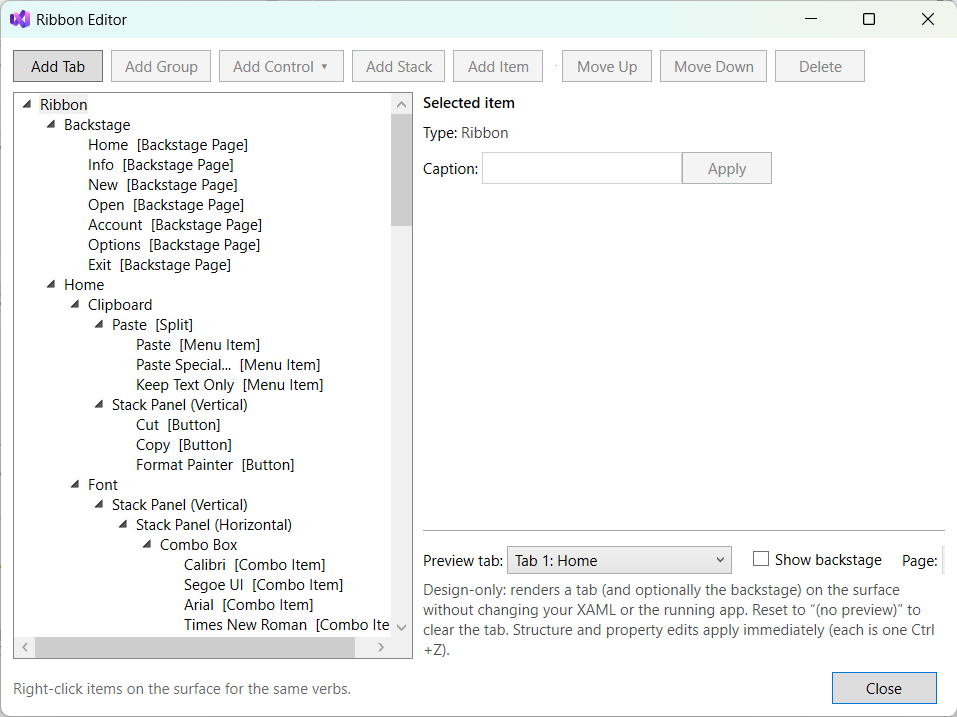
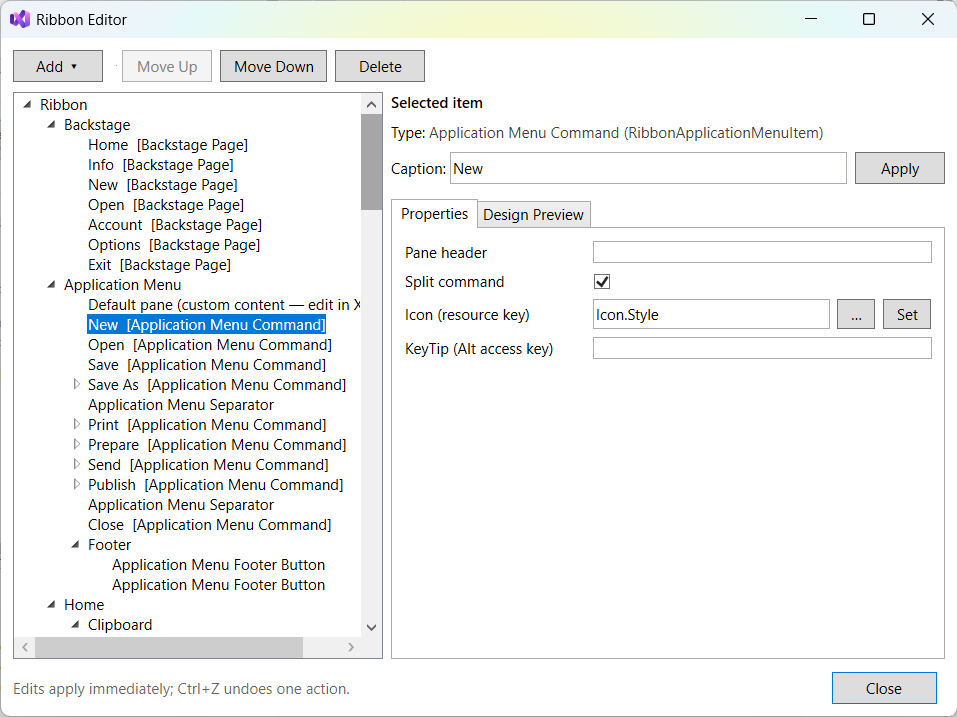
updated documentation

diff --git a/04-DESIGN-NOTES.md b/04-DESIGN-NOTES.md
@@ -3392,7 +3392,7 @@ opaque 2007/2010 hover and pressed borders still paint over that base outline, p
 classic highlighted states. No new tokens or theme-specific template branches were needed. One
 template contract pins the permanent application-menu brush/thickness/corner geometry, prevents
 state triggers from mutating it, and retains the existing theme-specific Chrome state brushes.
-Current baseline: 169 logic tests and 47 approved images; manual hover recheck is pending.
+Current baseline: 171 logic tests and 47 approved images; manual hover recheck is pending.
 
 ### 3.63 Failure-only CI artifacts for cross-machine snapshot diagnosis — 2026-08-08
 
@@ -3409,7 +3409,7 @@ and repository-default artifact retention applies. The committed PNG format/loca
 regeneration opt-in, comparison thresholds, and `windows-latest` runner remain unchanged. The next
 run's actual/diff pair must be reviewed before choosing any portability correction.
 
-### 3.62 Responsive Ribbon Editor + application-menu authoring — 2026-08-08
+### 3.62 Responsive Ribbon Editor + application-menu authoring — VERIFIED IN VS, 2026-08-08
 
 The application-menu backlog is implemented in the existing net472/code-built designer architecture.
 The editor shell now uses a compact contextual **Add** menu, a resizable star-sized tree/inspector
@@ -3431,8 +3431,10 @@ invalidates any object-valued preview property. `Ribbon` consumes the one primit
 updates its normal open/discriminator/design-host state synchronously. Application-menu pane preview
 likewise translates only `DesignPreviewActiveIndex`; `RibbonApplicationMenu` derives its ordinary
 `ActiveItem`, pane content/header, and item state inside the runtime control. Backstage pages keep their
-existing integer `SelectedIndex` provider. The new primitive-only paths require a fresh live Visual
-Studio designer pass before they are called verified.
+existing integer `SelectedIndex` provider. The final primitive-only paths are verified in the VS 2022
+isolated designer: Application menu, Closed, and Backstage can be cycled repeatedly without a transient
+wrong surface, a crash, model corruption, or serialized preview state, and application-menu pane
+selection remains usable afterward.
 
 `Ribbon.ApplicationMenu` is now a deletable singleton editor root and **Add Application Menu** is also
 a Ribbon surface verb. The contextual Add menu creates/reorders/deletes command items, separators,
@@ -3441,9 +3443,10 @@ KeyTip, drag/drop and one-editing-scope-per-undo paths. Standard panes are manag
 Arbitrary existing `DefaultContent`, command `Content`, or `FooterContent` is surfaced as custom
 content and left untouched rather than recursively exposing or rewriting its visual tree.
 
-Build verification for this implementation is recorded below; default/minimum width, live DPI move,
-all authoring operations/undo, no-XAML preview state, and active-pane rendering remain the focused
-Windows designer acceptance pass.
+Build verification for this implementation is recorded below. The redesigned editor and its complete
+File-surface/pane preview cycle are user-verified in Visual Studio; the live DPI-monitor move and the
+full add/delete/reorder/undo matrix remain useful focused regression checks rather than blockers for
+the application-menu parity item.
 
 ## 4. Workflow / Session Conventions
 
@@ -3640,11 +3643,10 @@ during this arc.
 
 Backlog (rough priority):
 
-1. **XAML Designer Ribbon Editor application-menu parity — IMPLEMENTED (§3.62), live designer pass
-   pending.** The responsive editor, singleton/menu structure authoring, property reuse, File-surface
-   selector and design-only active-pane provider are built. Verify the default/minimum-width and live
-   DPI move, every add/delete/reorder/undo path, and active-pane rendering in Visual Studio before
-   marking this user-verified.
+1. **XAML Designer Ribbon Editor application-menu parity — DONE AND USER-VERIFIED (§3.62).** The
+   responsive editor, singleton/menu structure authoring, property reuse, atomic File-surface selector,
+   and design-only active-pane preview are complete. Keep default/minimum width, live DPI moves, and
+   representative add/delete/reorder/undo operations in future designer regression passes.
 1a. Design editor: optional clear-to-default buttons for scalar properties. (Drag-drop tree
    reordering + cross-tab/group moves are now DONE — see §5 "Drag-drop reordering".)
 1b. ~~Finish the `DropdownMenu` animation.~~ **DONE (§3.42)** — all five flyouts plus the context
@@ -3681,11 +3683,12 @@ Possible post-v1 polish:
   honor reduced motion, handle rapid reversals, and stay disabled while a DWM backdrop is active so
   Mica/Acrylic retain their native material retint without a second cross-fade on top.
 
-**Unit tests: 169 green (verified 2026-08-08).** Coverage now includes the STA harness, the borrow
+**Unit tests: 171 green (verified 2026-08-08).** Coverage now includes the STA harness, the borrow
 protocol, overflow strip measure/arrange rules, popup motion and dismissal, proxy mirroring,
 application-menu layering/hover/footer-outline/KeyTips, Office 2010 seam/state/consumer contracts, localization/RTL
 context-menu, customization-template, chrome-tooltip, default-File, representative bidi-lab and
-live Backstage/title-transition contracts, and the existing reduction/size-definition/theme-scope tests.
+live Backstage/title-transition contracts, design-preview runtime isolation, and the existing
+reduction/size-definition/theme-scope tests.
 `RibbonMergeModalTests` adds the Phase 7 automated invariants: merge ordering across later
 permutations, merge/unmerge round-trips, group restore with two sources in one tab, capture while
 modal, modal enter/exit selection and cancellation, forced exit when a merged modal tab leaves,

diff --git a/AGENTS.md b/AGENTS.md
@@ -24,11 +24,11 @@ Last consolidated: 2026-08-01 from the repository Markdown files.
 
 ### Status at consolidation
 
-- Roadmap phases 0-7 are complete. All five themes (Office 2007, 2010, 2013, 2019, and 2024) ship with generation-specific dark/black variants, and DPI was verified at 100/125/150/175/200%. The deterministic 40-image theme/variant matrix covers ten palettes at 100/125/150/200%, with focused RTL ribbon, QAT-customization, and representative bidirectional Backstage approvals. Phase 6's localization/RTL work is complete through design-notes §3.61, including the user-verified live popup/window, screen-edge, and Office 2024/2007 application-menu/orb pass. Phase 8/API freeze has not started.
+- Roadmap phases 0-7 are complete. All five themes (Office 2007, 2010, 2013, 2019, and 2024) ship with generation-specific dark/black variants, and DPI was verified at 100/125/150/175/200%. The deterministic 40-image theme/variant matrix covers ten palettes at 100/125/150/200%, with focused RTL ribbon, QAT-customization, and representative bidirectional Backstage approvals. Phase 6's localization/RTL work is complete through design-notes §3.61, and the responsive Ribbon Editor/application-menu authoring work is complete and user-verified in VS through §3.62. Phase 8/API freeze has not started.
 - The Office 2007 two-pane application menu has shipped as `RibbonApplicationMenu`; the 2007 window frame remains deferred.
 - MDI milestones M0 and M4 are complete: floating children plus tab/caption merge work. M1-M3 remain: arrange commands and keyboard cycling, full MVVM proof, tabbed-document mode, and persistence.
-- Windows verification is complete through design-notes §3.61, including whole-surface/reduced-motion flyouts, the Ribbon Editor's Large-only split-layout behavior, runtime split-button/companion states, proxy enabled-state propagation, the application-menu theme/DPI matrix, and the final live localization/RTL popup/window pass.
-- The test suite has 169 green logic tests plus one visual test covering 47 approved images as of 2026-08-08. Phase 7 merge/modal invariants, nested dark-foreground/control-surface contracts, Office 2010 seam/button-state/Backstage-shell contracts, complete 2007/2010 Black application-menu palettes, all ten theme palettes, focused 2010 state/Backstage and classic-dark menu scenes, RTL ribbon/QAT-customization/bidirectional-Backstage scenes, RTL physical-frame/logical-content isolation, live Backstage flow/title-axis/slide-edge behavior, synchronized Showcase Backstage/application-menu/orb choices, persistent application-menu footer-button outlines, localized ribbon context-menu/customization/chrome/default-File/conventional application-menu-footer contracts, and application-button-width selection-visual reflow are covered; important remaining gaps include broader customization round trips, KeyTip resolution, and remaining reduction-algorithm cases.
+- Windows verification is complete through design-notes §3.62, including whole-surface/reduced-motion flyouts, the Ribbon Editor's Large-only split-layout behavior, runtime split-button/companion states, proxy enabled-state propagation, the application-menu theme/DPI matrix, the final live localization/RTL popup/window pass, and crash-free atomic Ribbon Editor cycling among Closed, Backstage, and application-menu previews with pane selection.
+- The test suite has 171 green logic tests plus one visual test covering 47 approved images as of 2026-08-08. Phase 7 merge/modal invariants, nested dark-foreground/control-surface contracts, Office 2010 seam/button-state/Backstage-shell contracts, complete 2007/2010 Black application-menu palettes, all ten theme palettes, focused 2010 state/Backstage and classic-dark menu scenes, RTL ribbon/QAT-customization/bidirectional-Backstage scenes, RTL physical-frame/logical-content isolation, live Backstage flow/title-axis/slide-edge behavior, synchronized Showcase Backstage/application-menu/orb choices, persistent application-menu footer-button outlines, localized ribbon context-menu/customization/chrome/default-File/conventional application-menu-footer contracts, application-button-width selection-visual reflow, and design-preview runtime isolation are covered; important remaining gaps include broader customization round trips, KeyTip resolution, and remaining reduction-algorithm cases.
 
 ### Working conventions
 

diff --git a/README.md b/README.md
@@ -104,9 +104,9 @@ Legend: ✅ done · 🚧 in progress · 📋 planned
 | Feature | Status |
 |---|---|
 | MVVM — `ItemsSource` + `DataTemplate` throughout | ✅ |
-| XAML designer preview (active tab + backstage on the design surface) | ✅ |
+| XAML designer preview (active tab + Backstage/application menu + page/pane selection) | ✅ |
 | Design-time smart tags / quick actions in Visual Studio | ✅ |
-| **Ribbon Editor** design-time dialog with drag-drop tree reordering | ✅ |
+| Responsive **Ribbon Editor** with drag-drop authoring for ribbon, Backstage, and application-menu structure | ✅ |
 | NuGet package bundling the design-tools assembly + toolbox manifest | ✅ |
 | Showcase / demo app | ✅ |
 | Visual regression snapshot suite per theme / variant × DPI | ✅ |
@@ -114,7 +114,7 @@ Legend: ✅ done · 🚧 in progress · 📋 planned
 
 ![The design-time Ribbon Editor dialog](docs/images/ribbon-editor.png)
 
-*The design-time Ribbon Editor: the full structure tree with drag-drop reordering, property editing, and a tab preview rendered on the XAML design surface without touching your XAML or the running app.*
+*The responsive design-time Ribbon Editor: drag-drop structure authoring, contextual property editing, and active-tab/File-surface/page-or-pane previews rendered on the XAML design surface without changing application XAML or runtime behavior.*
 
 ### Preview: MDI emulation
 

diff --git a/src/RibbonKit.Design/SETUP-DESIGNTOOLS.md b/src/RibbonKit.Design/SETUP-DESIGNTOOLS.md
@@ -138,8 +138,9 @@ the backstage is shown, "(default)" clears the override. Because `SelectedIndex`
 `Selector` declaring types, since which one the designer reports for an inherited DP is unverified.
 For an application menu it translates only the integer `DesignPreviewActiveIndex`; the runtime menu
 derives its normal read-only pane state synchronously. No object-valued preview property is registered
-or invalidated. This path requires the same live Windows designer verification used for the original
-tab/backstage provider. It runs in-process on the VS UI thread (only the design
+or invalidated. The complete Application menu → Closed → Backstage → Application menu → Closed
+cycle and subsequent pane selection are verified in the VS 2022 isolated designer without a flash,
+crash, or model corruption. It runs in-process on the VS UI thread (only the design
 *surface* is process-isolated, not extension code), so it's a plain code-built WPF `Window`
 (the design assembly can't reference RibbonKit's themes). Every change is applied straight to
 the `ModelItem` tree through `DesignModel`, each as its own single undo — same transaction model
